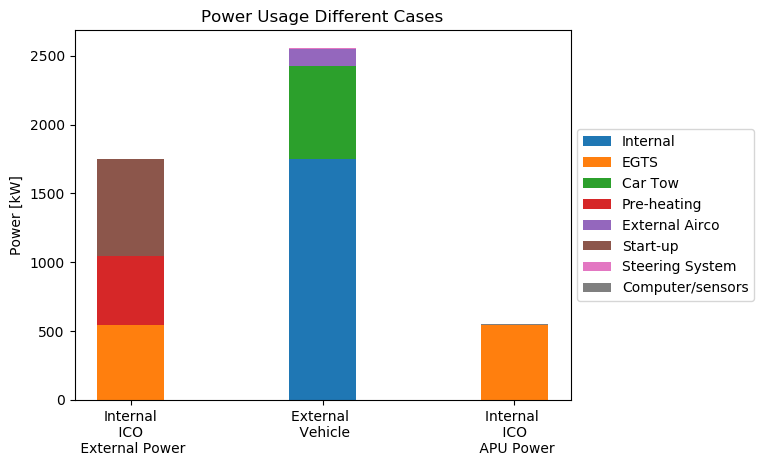
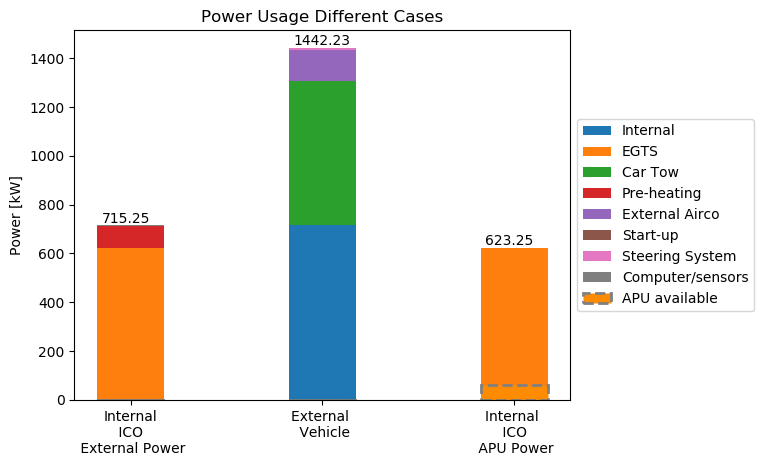
Total barplots, static power plot

diff --git a/Power_new.py b/Power_new.py
@@ -37,18 +37,21 @@ def EGTS_power(a, v, ratio, pow_wheel=2):
     m_tot = m_plane + m_car
     weight_ratio    = 0.952     # [-] Weight distribution ratio
     Roll_fric       = 0.02      # [-] Rolling friction coefficient
+    Roll_fric_car   = 0.0065
+
 
     N_mlg   =  m_plane*weight_ratio*9.81
     N_mlg_w =  N_mlg/4
+    N_nlg   = (m_car + m_plane*(1-weight_ratio))*9.81
 
-    F_tot = m_tot*a + Roll_fric*m_tot*9.81  # [N] Total force req to move plane at acceleration
+    F_tot = m_tot*a + Roll_fric*N_mlg + Roll_fric_car*N_nlg  # [N] Total force req to move plane at acceleration
     F_mlg = (1-ratio)*F_tot  # [N] Force needed  from internal
     F_mlg_w = F_mlg/pow_wheel  # [N] Force needed  from internal per wheel
 
     T_mlg_w = F_mlg_w*w_rad_air
 
     if stat_traction(T_mlg_w, N_mlg_w, w_rad_air):
-        print("Static friction checked")
+        print("EGTS: Static friction checked")
     else:
         raise ValueError("Exceeds Static friction")
 
@@ -64,11 +67,13 @@ def car_power(a, v, ratio, pow_wheel=4):
     m_tot = m_plane + m_car
     weight_ratio    = 0.952     # [-] Weight distribution ratio
     Roll_fric       = 0.02      # [-] Rolling friction coefficient
+    Roll_fric_car   = 0.0065
 
+    N_mlg   =  m_plane*weight_ratio*9.81
     N_nlg   = (m_car + m_plane*(1-weight_ratio))*9.81
     N_nlg_w = N_nlg/4
 
-    F_tot = m_tot*a + Roll_fric*m_tot*9.81  # [N] Total force req to move plane at acceleration
+    F_tot = m_tot*a + Roll_fric*N_mlg + Roll_fric_car*N_nlg  # [N] Total force req to move plane at acceleration
     F_nlg = ratio*F_tot  # [N] Force needed  from internal
     print(F_nlg)
     F_nlg_w = F_nlg/pow_wheel  # [N] Force needed  from internal per wheel
@@ -114,7 +119,7 @@ def s_v_a_plotter(title,time, power, velocity, acceleration):
         timemax = time[time_idx]
 
         ax1 = fig.add_subplot(gs[1, :])
-        ax1.set_title("Power")
+        ax1.set_title("Power/Gear")
         ax1.set_xlabel("Time [s]")
         ax1.set_ylabel("Power [kW]")
         ax1.plot(time, [i/1000 for i in power])
@@ -176,9 +181,9 @@ def total_powerplot(P_nlg_tot, P_mlg_tot):
     fig = plt.figure()
     N = 3
 
-    preheat = 500  # [kW] Engine pre-heating
+    preheat = 92   # [kW] Engine pre-heating
     airco   = 125  # [kW] External Airco
-    startup = 700  # [kW] Start-up
+    startup = 0    # [kW] Start-up
     steer   = 8    # [kW] Steering System
     sensor  = 2    # [kW] Computers/sensors
 
@@ -204,23 +209,59 @@ def total_powerplot(P_nlg_tot, P_mlg_tot):
                  bottom=Onaircraft[0]+EGTS[0]+P_car_prop[0]+Pre_heat[0]+Airco_ex[0]+Start_up[0])
     p8 = plt.bar(ind, Sensors[0], width,
                  bottom=Onaircraft[0]+EGTS[0]+P_car_prop[0]+Pre_heat[0]+Airco_ex[0]+Start_up[0]+Steer_ex[0])
+
+    p9 = plt.bar(ind, [0, 0, 62], width, facecolor='darkorange', edgecolor='gray', lw=2, ls='--')
+
+    max_bar = Onaircraft[0]+EGTS[0]+P_car_prop[0]+Pre_heat[0]+Airco_ex[0]+Start_up[0]+Steer_ex[0]+Sensors[0]
+
+    plt.annotate(round(max_bar[0], 2), xy=(ind[0], max_bar[0]), xytext=(ind[0]-0.15, max_bar[0]+10), )
+    plt.annotate(round(max_bar[1], 2), xy=(ind[1], max_bar[1]), xytext=(ind[1]-0.15, max_bar[1]+10), )
+    plt.annotate(round(max_bar[2], 2), xy=(ind[2], max_bar[2]), xytext=(ind[2]-0.15, max_bar[2]+10), )
+
     #plt.yticks(np.arange(0, 3001, 150))
     plt.ylabel('Power [kW]')
     plt.title('Power Usage Different Cases')
     plt.xticks(ind, ('Internal\n ICO \n External Power', 'External \n Vehicle', 'Internal \n ICO \n APU Power'))
-    plt.legend((p1[0], p2[0], p3[0], p4[0], p5[0], p6[0], p7[0], p8[0]),
-               (Onaircraft[1], EGTS[1], P_car_prop[1], Pre_heat[1], Airco_ex[1], Start_up[1], Steer_ex[1], Sensors[1]),
+    plt.legend((p1[0], p2[0], p3[0], p4[0], p5[0], p6[0], p7[0], p8[0], p9[0]),
+               (Onaircraft[1], EGTS[1], P_car_prop[1], Pre_heat[1], Airco_ex[1], Start_up[1], Steer_ex[1], Sensors[1], "APU available"),
                loc='center left', bbox_to_anchor=(1., 0.5))
     fig.savefig('Total_Power_Sys_Dist', bbox_inches='tight')
     plt.show()
     pass
 
 
+def static_power(velocity, time,ratio):
+    P_plane, P_car_1, P_car_2 = [], [], []
+    for vel in velocity:
+        P_plane.append(EGTS_power(0, vel, ratio)/1000)
+        i,j = car_power(0, vel, ratio)
+        P_car_1.append(i/1000)
+        P_car_2.append(j/1000)
+
+    fig, axs = plt.subplots(4, sharex=True)
+    fig.suptitle("Power Needed for Constant Velocity")
+    axs[0].set_title("Velocity")
+    axs[0].set_ylabel("Speed [m/s]")
+    axs[0].plot(time,velocity,color='g')
+    axs[1].set_title("Power EGTS/Gear")
+    axs[1].set_ylabel("Power [kW]")
+    axs[1].plot(time, P_plane)
+    axs[2].set_title("Power Car Front Wheel")
+    axs[2].set_ylabel("Power [kW]")
+    axs[2].plot(time, P_car_1)
+    axs[3].set_title("Power Car Rear Wheel")
+    axs[3].set_ylabel("Power [kW]")
+    axs[3].set_xlabel("Time [s]")
+    axs[3].plot(time, P_car_2)
+    plt.tight_layout()
+
+    plt.show()
+    pass
 
 
 # ------------------------------------------------------- Inputs -------------------------------------------------------
-F_nlg_allow = 62833.3333333
-a = [1, 1, 1, 1, 1, 1, 1, 1, 1, 0.75, 0.75, 0.75, 0.75, 0.6, 0.6, 0.5, 0.4, 0.4, 0.3, 0.3, 0.3, 0.2, 0.2, 0.2]
+F_nlg_allow = 120000
+a = [1.8, 1.8, 1.75, 1.65, 1.4, 1.15, 1, 0.9, 0.8, 0.75, 0.7, 0.65, 0.6, 0.55, 0.55, 0.5]
 
 # ---------------------------------------------------- Calculations ----------------------------------------------------
 t = [i for i in range((len(a)))]
@@ -241,3 +282,4 @@ s_v_a_plotter('egts', t, P_egts_w, v, a)
 s_v_a_plotter('car', t, P_car_w, v, a)
 
 total_powerplot((2*max(P_car_w[0, :])+2*max(P_car_w[1, :]))/1000, 2*max(P_egts_w)/1000)
+static_power(v, t, power_ratio)
